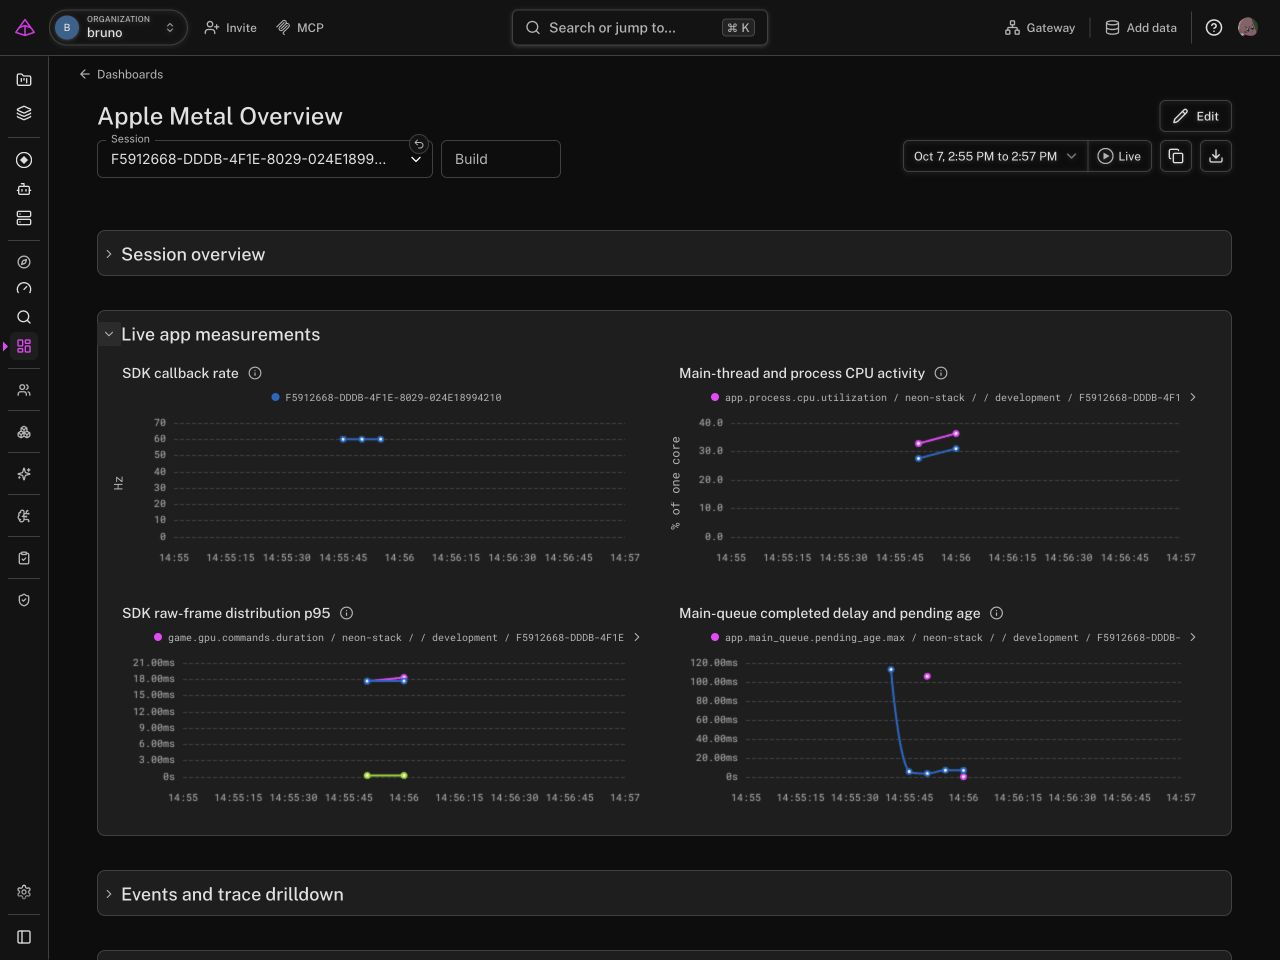
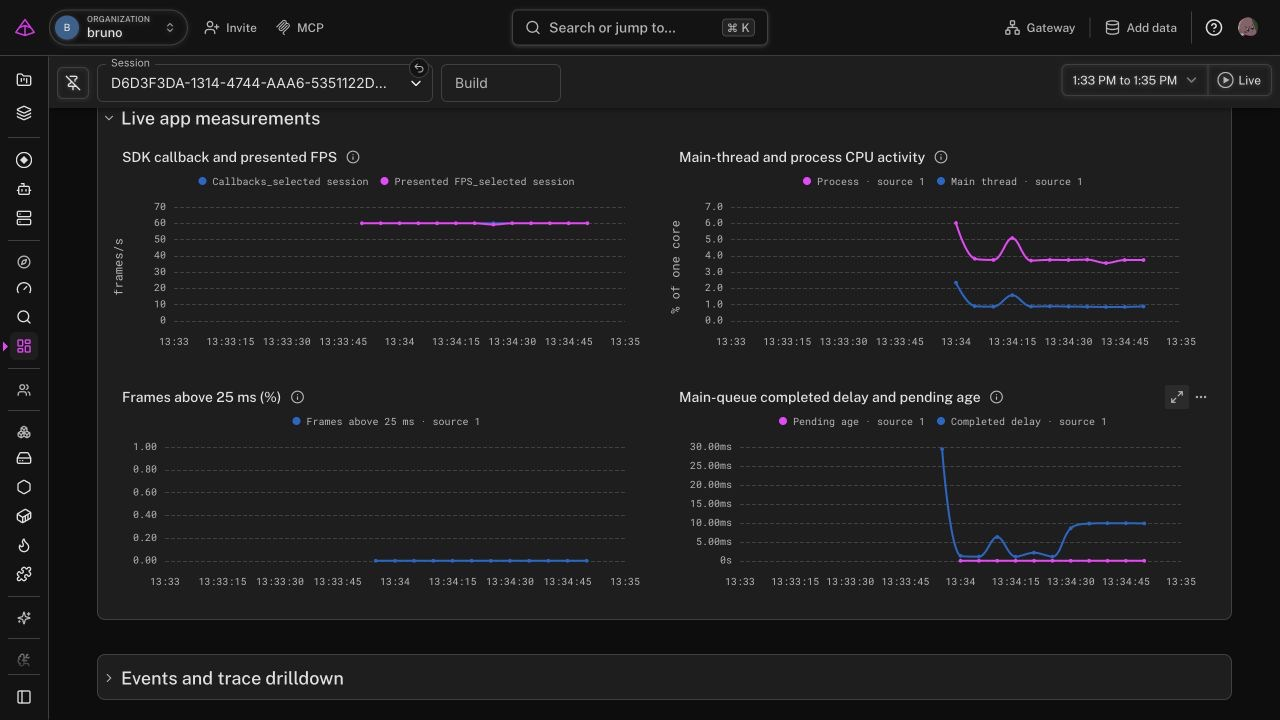
Clarify audit receipts and show the verified dashboard in the reel

diff --git a/tools/check-preview.swift b/tools/check-preview.swift
@@ -72,7 +72,7 @@ struct SessionEvidence: Encodable {
 }
 
 struct Verification: Encodable {
-    let hostedReconciliationRequired = true
+    let hostedReconciliationRequired: Bool
     let performanceBaseline = false
     let sessions: [SessionEvidence]
     let failures: [String]
@@ -156,10 +156,9 @@ for label in labels {
 if Set(sessions.map(\.sessionID)).count != sessions.count { failures.append("Session identities are duplicated") }
 let encoder = JSONEncoder()
 encoder.outputFormatting = [.prettyPrinted, .sortedKeys]
-try encoder.encode(Verification(sessions: sessions, failures: failures)).write(
+try encoder.encode(Verification(hostedReconciliationRequired: !local, sessions: sessions, failures: failures)).write(
     to: root.appendingPathComponent("verification.json"), options: .atomic)
 for failure in failures { fputs(failure + "\n", stderr) }
 guard failures.isEmpty, sessions.count == labels.count else { exit(1) }
-print(
-    "Verified \(sessions.count) local sessions and \(sessions.reduce(0) { $0 + $1.frames }) frame samples. Hosted reconciliation remains required."
-)
+print("Verified \(sessions.count) local sessions and \(sessions.reduce(0) { $0 + $1.frames }) frame samples.")
+print(local ? "Exporters are disabled. Evidence remains local." : "Hosted reconciliation remains required.")

diff --git a/docs/session-review.md b/docs/session-review.md
@@ -136,3 +136,23 @@ An additional six-case local-only audit passes with disabled exporters. It retai
 Queries also find 18 distinct metric instruments in this audit interval. Four describe companion builds or host context; 14 describe the app.
 Detailed CPU callers, GPU replay costs, and shader compiler updates remain structured records, not additional live metric instruments.
 The presentation-lateness instrument has no observations because these workloads do not supply presentation target times.
+The interruption check returns exit 130, stops the owned app, and starts no subsequent case.
+
+### Which panels proved useful
+
+The five repetitions produce these medians on the busy development Mac.
+They demonstrate signal sensitivity. They do not establish a release performance baseline or a measured speedup.
+CPU values describe the identified main thread relative to one core.
+
+| Deliberate policy | Callback Hz | Presented FPS | Main-thread CPU % | What the overview reveals |
+| --- | --- | --- | --- | --- |
+| Normal drawable submission | 60.0 | 59.9 | 1.3 | Callback and presentation cadence agree |
+| Every second drawable submission | 60.0 | 30.0 | 1.1 | Callback cadence alone hides the presentation limit |
+| Log Roll with bounded HUD updates | 60.0 | 60.0 | 6.5 | The app retains headroom while it presents normally |
+| Log Roll with every-frame HUD updates | 60.0 | 60.0 | 28.9 | Extra main-thread work is visible even before FPS drops |
+| Log Roll with increased GPU work | 52.8 | 52.1 | 5.9 | Cadence falls without a similar rise in main-thread CPU |
+
+Keep the four overview charts. Each answers a different first investigation question.
+Keep raw distributions, native CPU callers, GPU replay costs, shader updates, and wait coverage in the detailed dashboard.
+Those panels answer targeted questions after collection. They are not continuous feeds from an ordinary app launch.
+No third dashboard is needed for this preview. Independent tester feedback should guide the next addition.

diff --git a/video/README.md b/video/README.md
@@ -7,6 +7,8 @@ The shared ember theme and animation components preserve the original reel's vis
 ![Input operations beside gameplay feedback](public/input-trace-preview.jpg)
 
 The dashboard scene uses [this real Logfire view](public/apple-metal-overview.jpg).
+The current image shows the verified 60-second session with callback/presentation cadence, CPU activity, slow-frame share, and queue delay.
+These observations are separate from the reported FPS animation.
 
 ## Render
 
